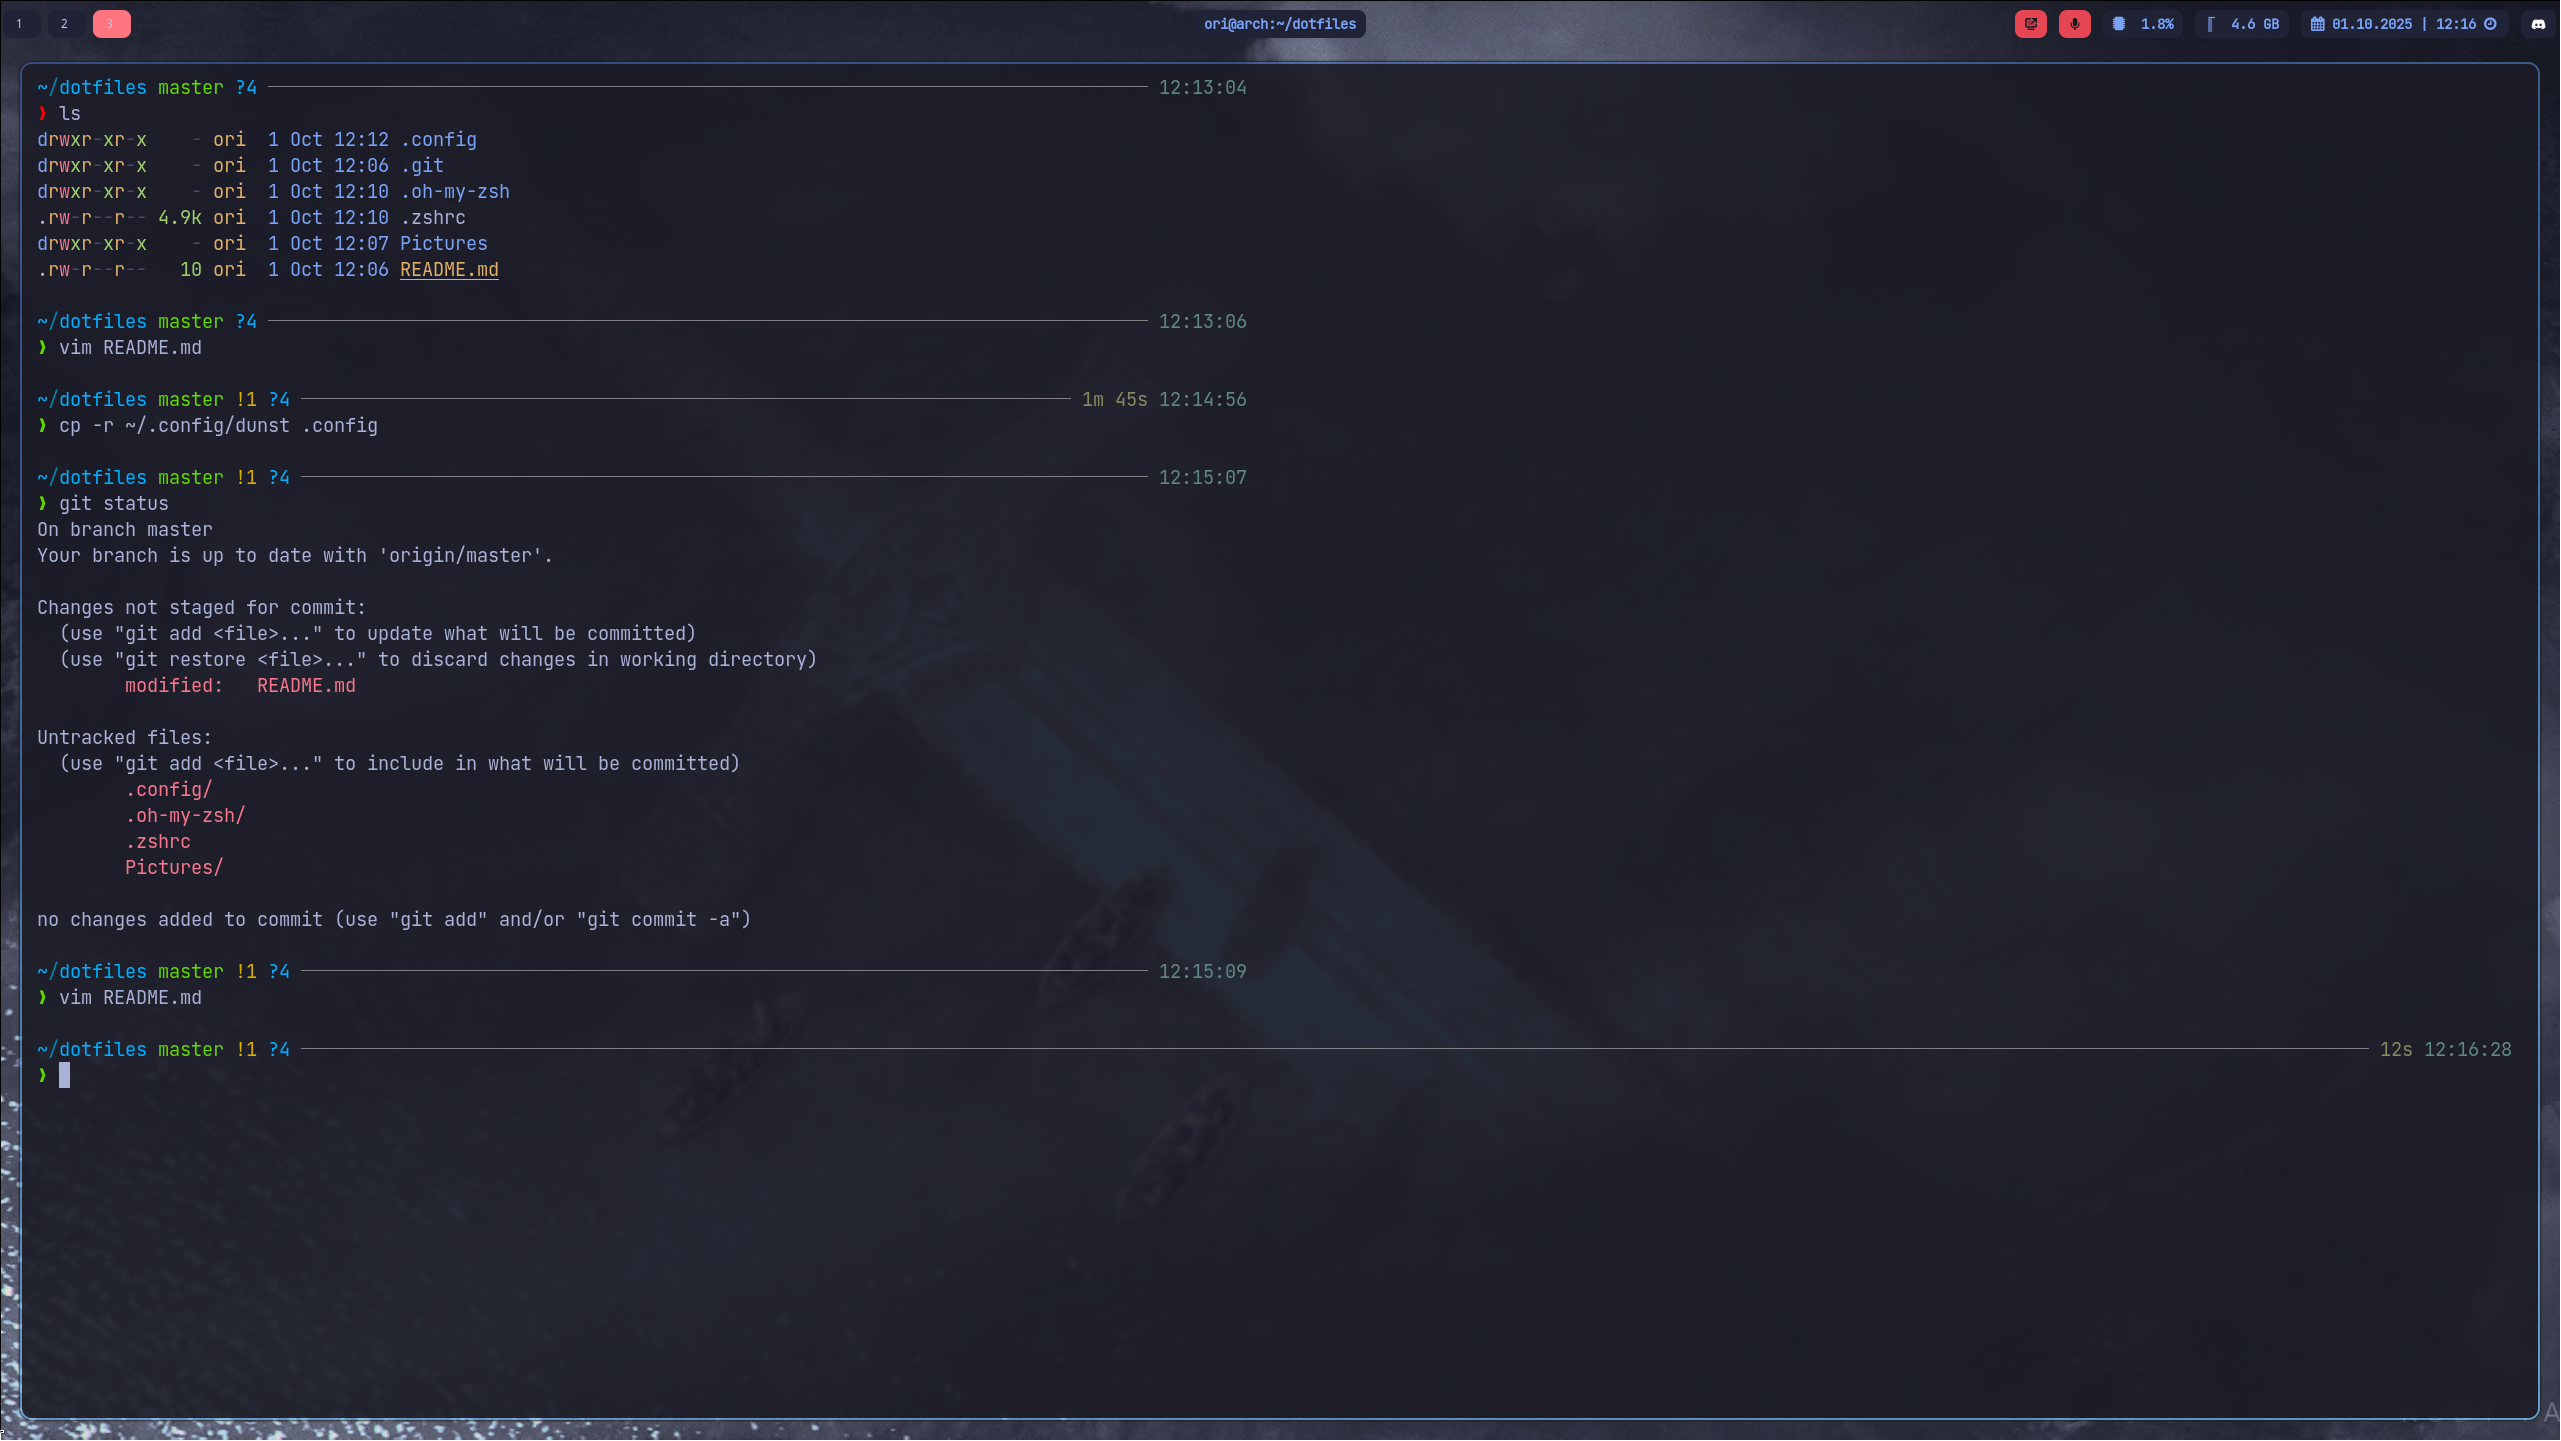
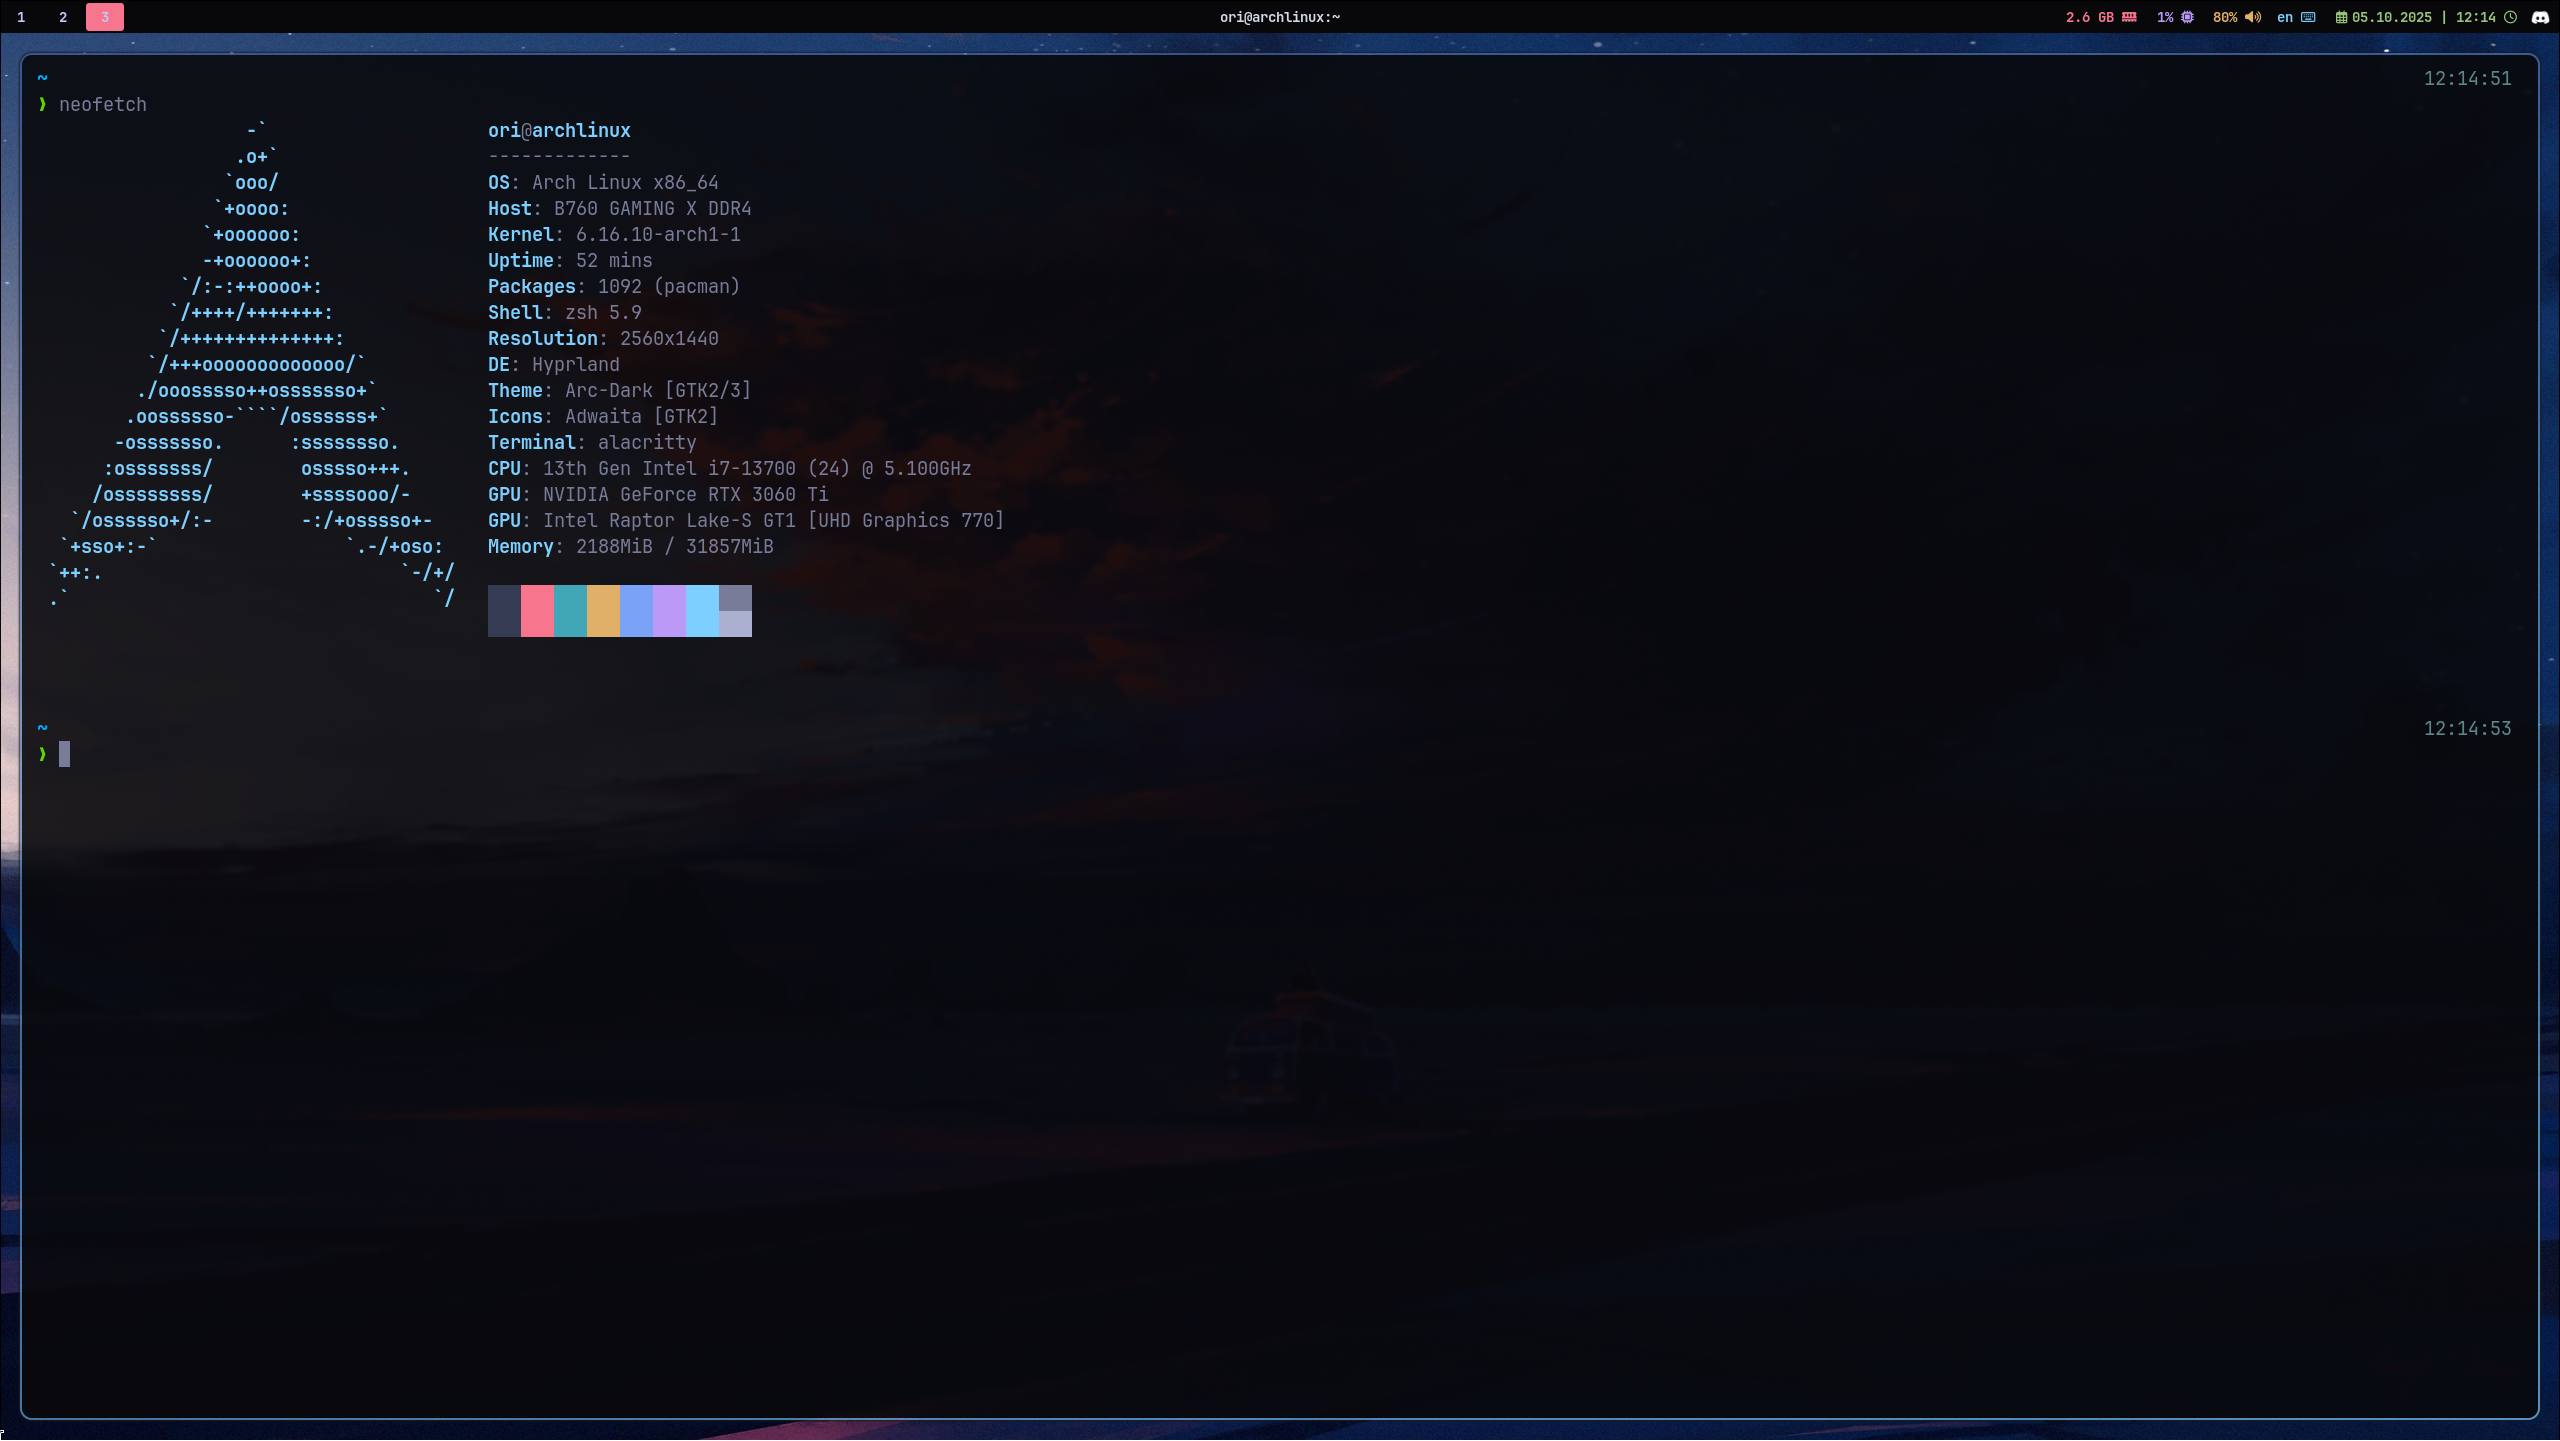
Changed waybar + new screenshot

diff --git a/.config/waybar/style.css b/.config/waybar/style.css
@@ -2,113 +2,51 @@
     font-family: "JetBrainsMono Nerd Font";
     font-weight: bold;
     font-size: 14px;
-    min-height: 0;
 }
 
 window#waybar {
-    /*background: transparent;*/
-    /* background: #1f2335; */
-    /* main window transparent background */
-    background: transparent;
-}
-
-tooltip {
-    font-family: inherit;
-    background: #1f2335;
-    /* tooltip background */
-    border: 2px solid #c0caf5;
-    /* tooltip border size and color */
-    border-radius: 5px;
-    /* tooltip rounded corners */
+    background: #08080b;
 }
 
 #workspaces button,
 #window,
 #mpris,
-#privacy-item,
-#bluetooth,
-#clock,
-#tray,
-#cpu,
-#power-profiles-daemon,
 #memory,
-#pulseaudio,
-#gamemode,
-#custom-updates {
-    /*text-shadow: 1px 1px 2px rgb(0, 0, 0);*/
-    /* text shadow, offset-x | offset-y | blur-radius | color */
-    background: #1f2335; /*#15161e default*/
-    /* background color */
-    margin: 10px 4px 4px 4px;
-    /* empty spaces around */
-    padding: 4px 10px;
-    /* extend pill size, vertical then horizontal */
-    /*box-shadow: 1px 1px 2px 1px rgba(0, 0, 0, 0.185);*/
-    /* pill background shadows */
-    border-radius: 8px; /*Default 5*/
-    /* rounded corners */
-    color: #7aa2f7;
+#cpu,
+#wireplumber,
+#language,
+#clock,
+#tray {
+    margin: 3px 2px 2px 2px;
+    padding: 2px 8px;
 }
-
-/* extend empty space on both side of the bar,
- * value from ~/.config/hypr/hyprland.conf
- * gaps_out (8px) + border size (2px) = 10px */
 
 #clock {
-    padding-right: 5px;
+    color: #98c379;
+    padding: 3px;
 }
 
-#privacy-item {
-    background: #e64553;
-    color: #15161e;
+#memory {
+    color: #f7768e;
+    padding: 3px;
 }
 
-/**#tray menu {
-    font-weight: bold;
-}**/
-
-#workspaces {
-    padding: 0 3px;
-    /* remove padding around workspace module */
+#language {
+    color: #7dcfff;
 }
 
-#workspaces button {
-    padding: 0px 12px 0px 8px;
-    /* fit with pill padding, 0px for not haveing duped vertical padding, 4px to make a square (4px value from module padding: ...#clock {padding >>4px<< 10px}) */
-    margin-left: 3px;
-    border: 1px solid transparent;
-    transition-property:
-        background-color, border-left-color, border-right-color;
-    transition-duration: 0.1s;
-    font-size: 10px;
-    color: #c0caf5;
+#cpu {
+    color: #bb9af7;
 }
 
-#workspaces button.empty {
-    padding: 0px 10px;
-}
-
-#workspaces button:first-child {
-    margin-left: 0;
+#wireplumber {
+    color: #e0af68;
 }
 
 #workspaces button.active {
-    /* active workspace */
-    background: #ff757f;
-
+    background: #f7768e;
 }
 
-#workspaces button:hover {
-    background: #7aa2f7;
-    /* hovered workspace color */
-}
-
-#power-profiles-daemon {
-    color: #c4cdf2;
-}
-
-@keyframes blink {
-    to {
-        background-color: #e64553;
-    }
+#workspaces button {
+    color: #c0caf5;
 }
